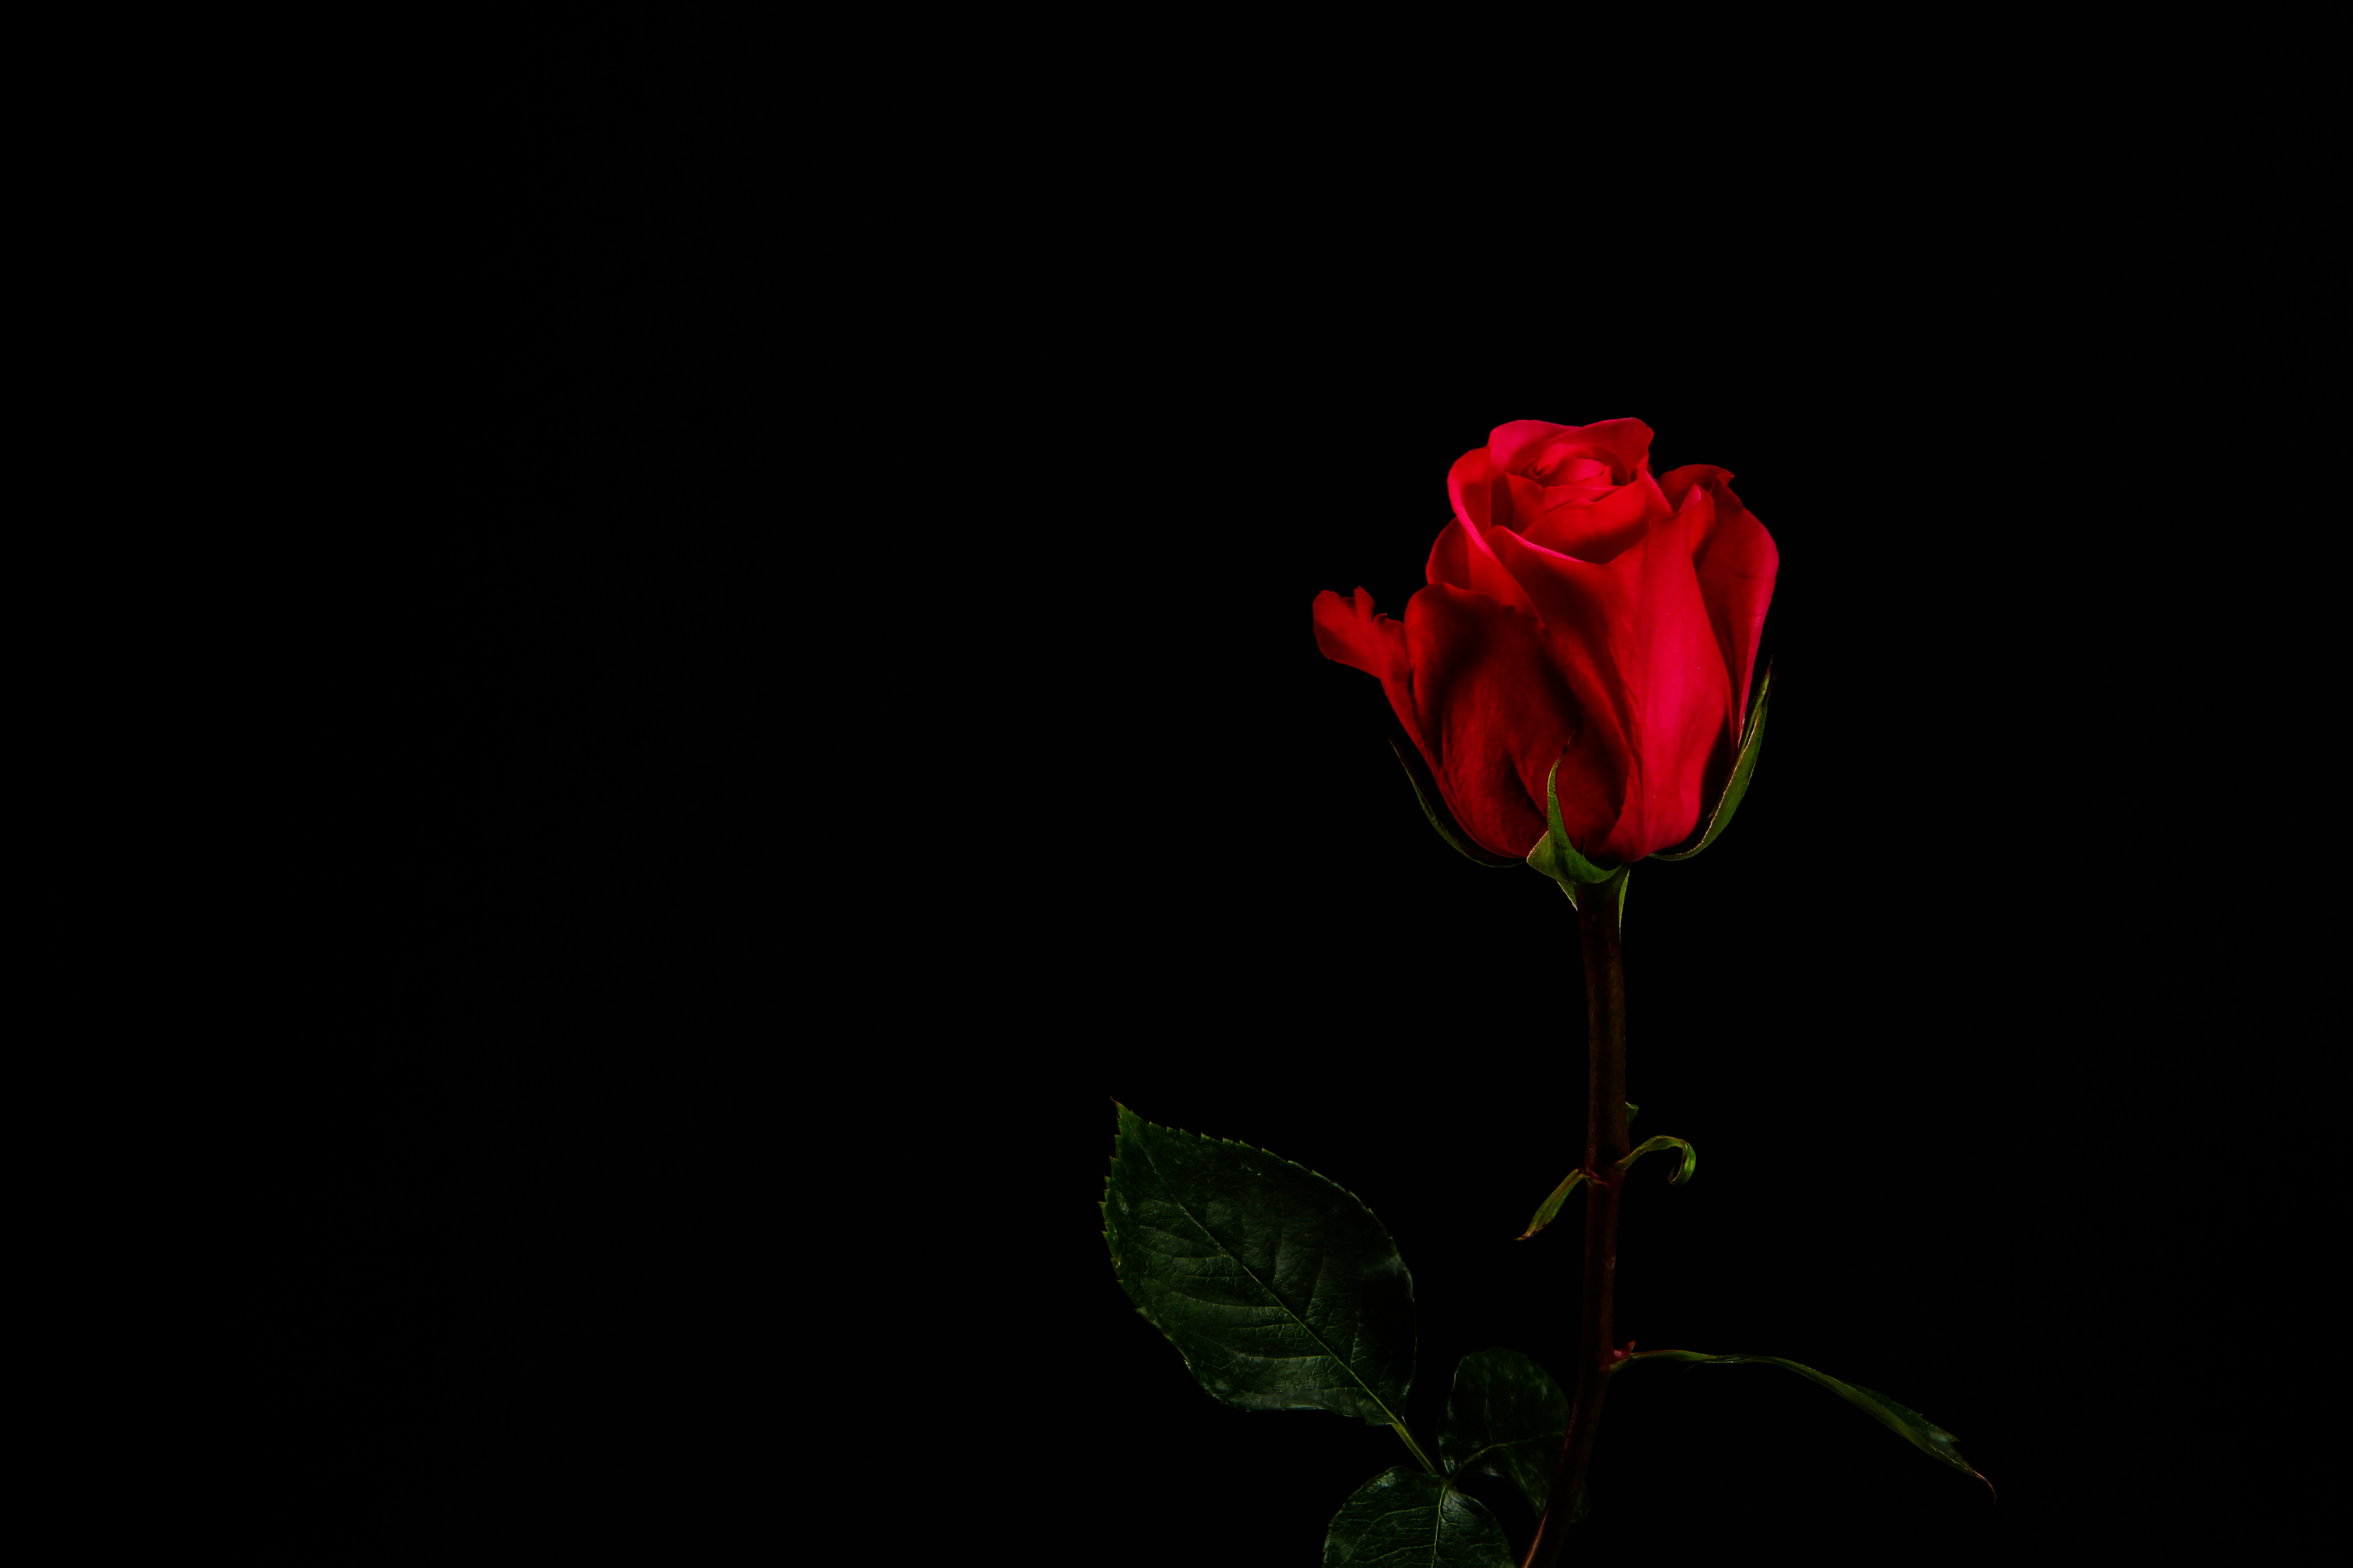
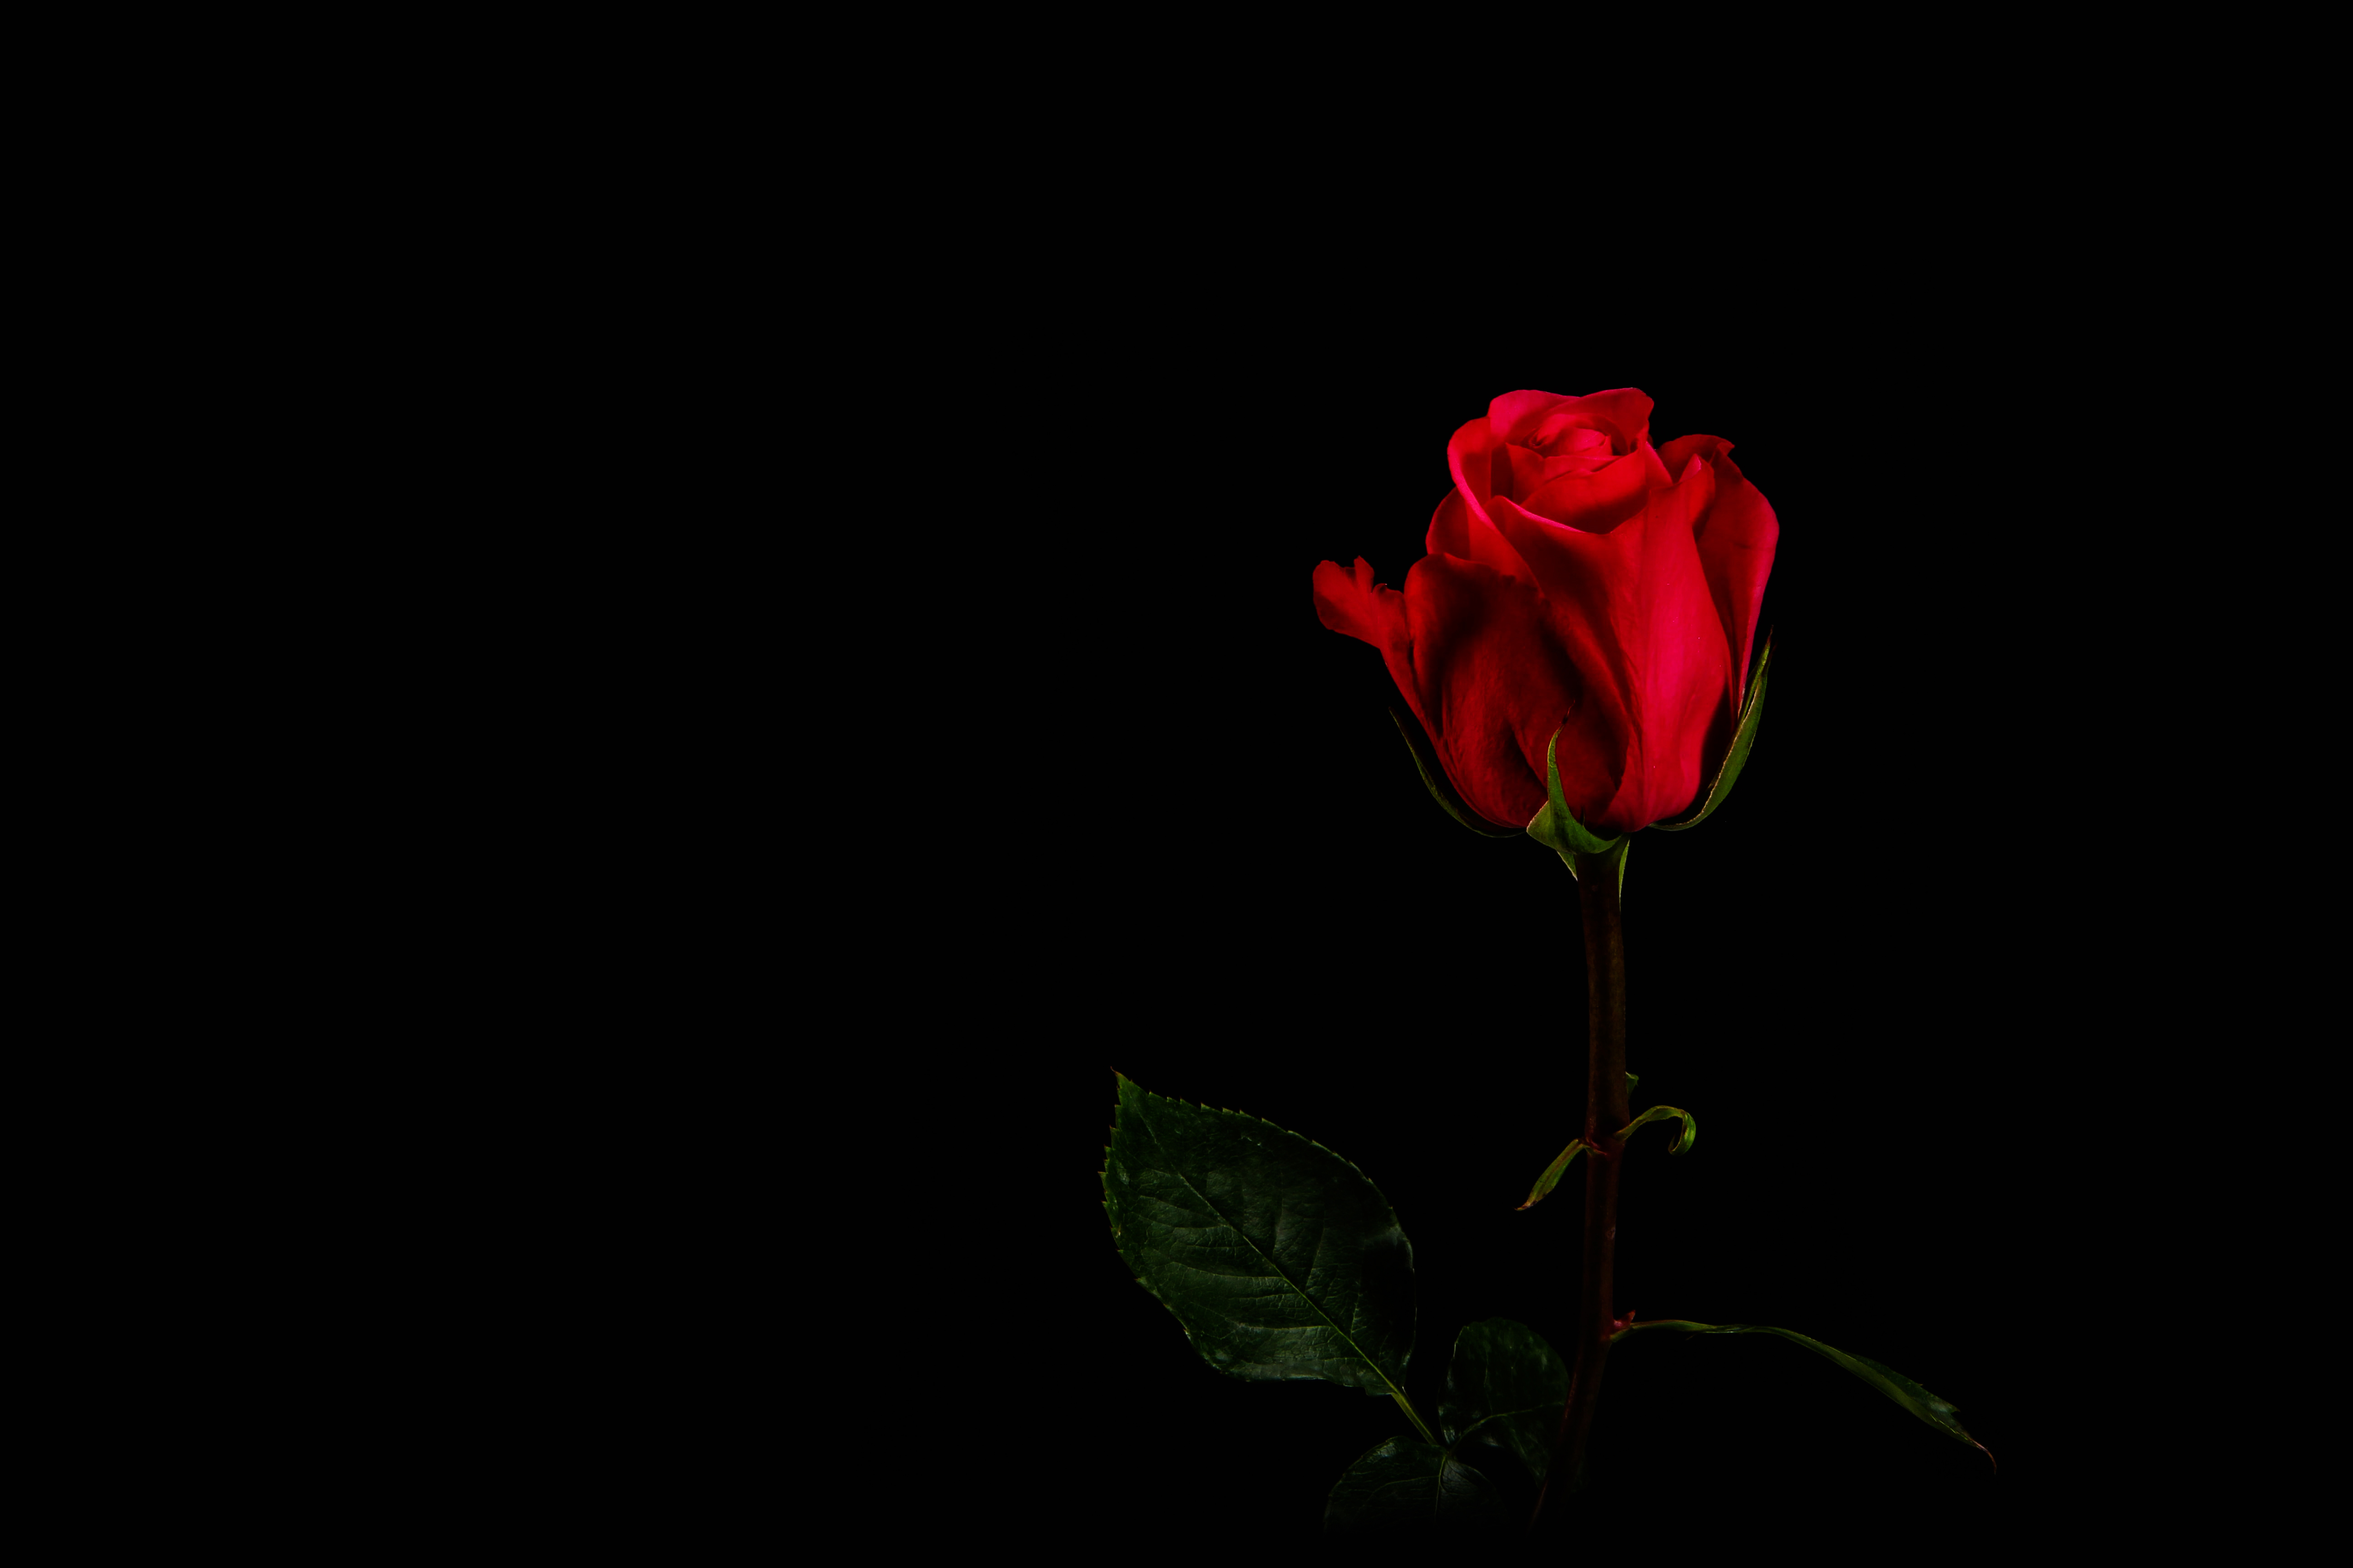
Add rose

diff --git a/src/pages/index.js b/src/pages/index.js
@@ -1,5 +1,9 @@
 import React from "react"
 import { graphql, useStaticQuery } from "gatsby"
+import Img from 'gatsby-image'
+import styled from 'styled-components'
+import { ParallaxProvider, Parallax } from "react-skrollr";
+import {useMediaQuery} from 'react-responsive'
 
 import Layout from "../components/layout"
 import About from "../components/About"
@@ -10,9 +14,15 @@ import {ProjectsContainer} from '../components/ProjectItem/styles'
 import {DesignsContainer} from '../components/DesignItem/styles'
 
 import {PROJECTS, DESIGNS} from '../data'
+import rose from '../../public/images/rose.jpg'
+
+
+
 
 const IndexPage = () => {
   
+  const isDesktop = useMediaQuery({query: '(min-width: 800px)'})
+
   const data = useStaticQuery(graphql`
   fragment fluidBG on File {
     childImageSharp {
@@ -21,7 +31,11 @@ const IndexPage = () => {
       }
     }
   }
-  query HeroBG {
+  query {
+    
+    rose: file(relativePath: { eq: "rose.jpg" }){
+      ...fluidBG
+    }
     ambientify: file(relativePath: { eq: "ambientify.jpg" }){
       ...fluidBG
     }
@@ -31,19 +45,62 @@ const IndexPage = () => {
   }
   `)
 
+  const roseParallaxData = {
+    "data-anchor-target" : "#designs",
+    "data-bottom-top" : `
+        position: fixed;
+        opacity: 0;
+        left: -45%;
+        bottom: -50%;
+        mix-blend-mode: ${isDesktop ? 'color-dodge' : 'lighten'};
+        max-width: 50vw;
+        max-height: 50vh;`,
+    "data--400-top-bottom" : `
+        position: fixed;
+        opacity: 1;
+        left: -35%;
+        ${isDesktop ? 'bottom: 35%;max-width: 100vw;max-height: 100vh;' : 'bottom: 50%;max-width: 300vw;max-height: 300vh;' }
+`,
+  }
+
+  const Rose = styled.img`
+  height: 100%;
+  width: 100%;
+  mix-blend-mode: ${isDesktop ? 'color-dodge' : 'lighten'};
+  user-select: none;
+  pointer-events: none;
+  `
+
+  const RoseContainer = styled(ParallaxProvider)`
+  mix-blend-mode: ${isDesktop ? 'color-dodge' : 'lighten'};
+  z-index: 0 !important;
+  `
+
   return(
   <Layout id="about">
     <About/>
+
     <SectionHeadline>&lt;PROJECTS/&gt;</SectionHeadline>
     <ProjectsContainer id="projects">
     {PROJECTS.map((project, i) => (<ProjectItem {...project} index={i} image={data[project.image].childImageSharp.fluid} key={project.name} left={1 & i}/>))}
     </ProjectsContainer>
+
     <SectionHeadline right>&lt;DESIGNS/&gt;</SectionHeadline>
     <DesignsContainer id="designs">
-     {DESIGNS.map((design, i) => (<DesignItem {...design} image={data[design.image].childImageSharp.fluid} key={design.name} left={1 & i}/>))}
+    {DESIGNS.map((design, i) => (<DesignItem {...design} image={data[design.image].childImageSharp.fluid} key={design.name} left={1 & i}/>))}
     </DesignsContainer>
 
     <SectionHeadline contacts>&lt;CONTACTS/&gt;</SectionHeadline>
+    <RoseContainer
+      init={{
+        smoothScrollingDuration: 200,
+        smoothScrolling: true,
+        forceHeight: true
+      }}>
+      <Parallax data={roseParallaxData}>
+        <Rose src={rose} />
+      </Parallax>
+    </RoseContainer>
   </Layout>
 )}
 
